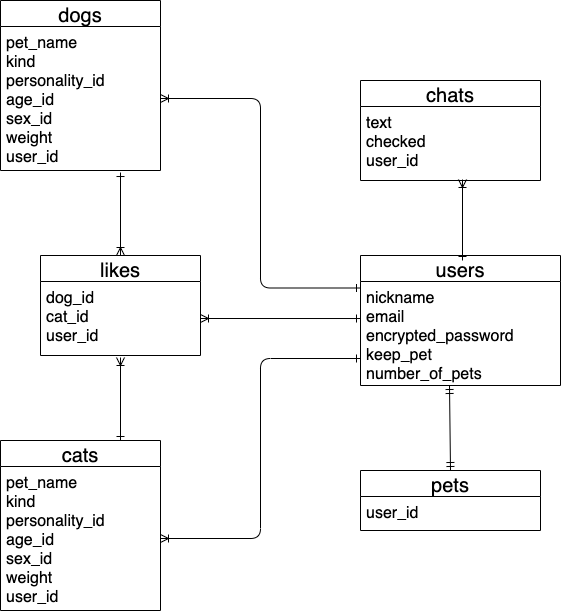
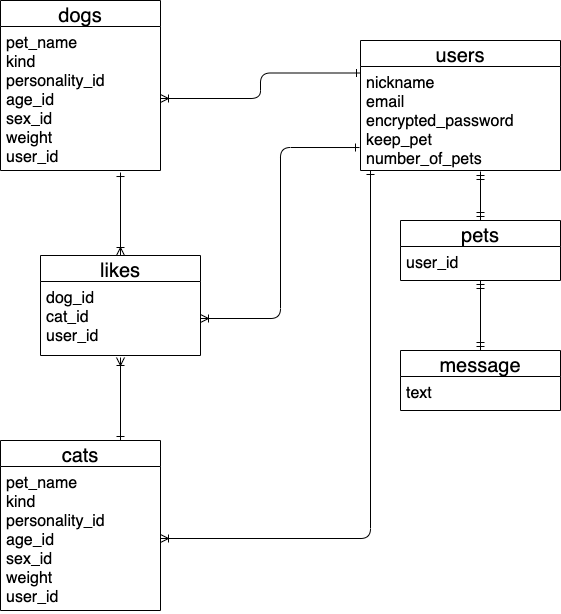
色々変更

diff --git a/app/models/message.rb b/app/models/message.rb
@@ -1,5 +1,5 @@
 class Message < ApplicationRecord
 
-  has_many :users
-
+  has_many   :users
+  belongs_to :message
 end

diff --git a/README.md b/README.md
@@ -18,7 +18,7 @@
 - belongs_to :pet
 - has_many   :cats
 - has_many   :dogs
-- has_many   :chats
+- has_many   :messages
 
 
 ## pets テーブル
@@ -86,18 +86,17 @@
 - has_many :users
 
 
-##  chatテーブル
+##  messageテーブル
 
 | Column       | Type       | Options           |
 | ------       | ---------- | --------          |
 | text         | text       | null: false       |
-| checked      | boolean    | null: false       |
-| user         | references | foreign_key: true |
 
 
 ### Association
 
 - has_many   :users
+- belongs_to :pet
 
 
 アプリケーション名: PetWith
@@ -155,7 +154,7 @@ URL: (デプロイ済みのURLを記述しましょう)
 
 ###チャット機能
 **目的**
-ユーザー同士が気軽に意見交換できるようにする為の機能。
+誰でも気軽に意見交換できるようにする為の機能。
 
 
 ###いいね機能
